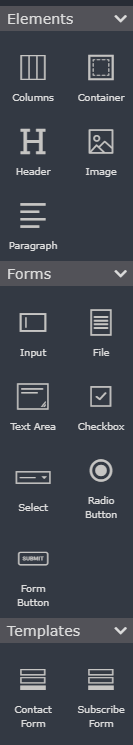
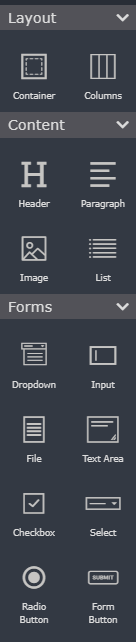
applied suggested edits to form document

Changed region(s): [[0.0, 0.0, 1.0, 0.9969]]

diff --git a/src/Workspace/Forms/index.md b/src/Workspace/Forms/index.md
@@ -123,28 +123,28 @@ Graphical elements from each category, possess element settings that developers 
 | ----------- | ----------- | ----------- | 
 | Container | Bootstrap containers provide the developer with a means to center and horizontally pad their form's contents. | Add links to the container. Choose between fluid and non-fluid options. |
 | Columns | HTML elements, form templates, and form inputs must be placed within columns. As a best practice columns should be embedded in containers. | Add links to the columns. Set the number of columns. Add padding. |
-| Header | The header element represents a container for introductory content. | Add links to the header. Set heading size. |
-| Image | The graphical analog to the `<img>` tag used to embed an image in an HTML page. | Add links to the image. Add an image. Add alt text. Set image shape. Set image width and height. |
-| Paragraph | The graphical analog to the `<p>` tag that defines a paragraph on an HTML page. | No settings. |
 
-**Templates**
+**Content**
 
 | Properties | Description | Element Settings |
 | ----------- | ----------- | ----------- | 
-| Contact Form | A form template that contains First Name, Last Name, Email address, Phone number, Message fields, and a Submit button.  | Set the Form Tag, Form Name  Form Action, Form Method, and Enctype. | 
-| Subscribe Form |  A form template that contains First Name, Last Name, Address, City, State, Zip fields, and a Submit button. | Set the Form Tag, Form Name  Form Action, Form Method, and Enctype. | 
+| Header | The header element represents a container for introductory content. | Add links to the header. Set heading size. |
+| Image | The graphical analog to the `<img>` tag used to embed an image in an HTML page. | Add links to the image. Add an image. Add alt text. Set image shape. Set image width and height. |
+| Paragraph | The graphical analog to the `<p>` tag that defines a paragraph on an HTML page. | No settings. |
+| List | The graphical analog to the `<ul>` or `<ol>` tags rendered into a [list group](https://getbootstrap.com/docs/5.0/components/list-group/). | Reorder, add, or remove elements in the list group. | 
 
 **Forms**
 
 | Properties | Description | Element Settings |
-| ----------- | ----------- | ----------- | 
+| ----------- | ----------- | ----------- |
+| Dropdown | The graphical analog to the bootstrap [dropdown component](https://getbootstrap.com/docs/5.0/components/dropdowns/) that displays list of links and more. | Add links. Select a button style, set the button size, set the button text. |  
 | Input |  The graphical analog to the `<input>` element. | Set the name, input type, label, helper text, placeholder text, ID, prepend icon, append icon. Toggle between required and optional. |
 | File | The graphical analog to the `<input type="file">` that defines a file-select field and a "Browse" button for file uploads | N/A | 
-| Text Area | The graphical analog to the <text-area> tag that defines a multiline input control. | Set the label, helper text, placeholder text, Name, ID. Toggle between required and optional. Hide/show the label. | 
+| Text Area | The graphical analog to the `<text-area>` tag that defines a multiline input control. | Set the label, helper text, placeholder text, Name, ID. Toggle between required and optional. Hide/show the label. | 
 | Checkbox |  The graphical analog to the `<input type="checkbox">` that defines a checkbox. |  Set the label, Name, and ID. | 
 | Select |  The graphical analog to the `<select>` element that defines a drop-down list. | Set the item and values. Arrange the hierarchy of select values. Add select values. Add helper text. Add placeholder text. Set the label. Add a Name. Set the ID. Toggle between required and optional. Hide/show the label. | 
 | Radio Button | The graphical analog to the `<input type ="radio">` that defines a radio button -- which lets a user to select only one of a limited number of choices. | Set the label. Add a Name. Set the ID. Set the Value. |
-|Form Button | The graphical analog to the button element that defines a clickable button. | Add links. Select a button style, set the button size, set the button text. | 
+|Form Button | The graphical analog to the `<button>` tag that defines a clickable button. | Add links. Select a button style, set the button size, set the button text. | 
 
 **Form Views**
 
